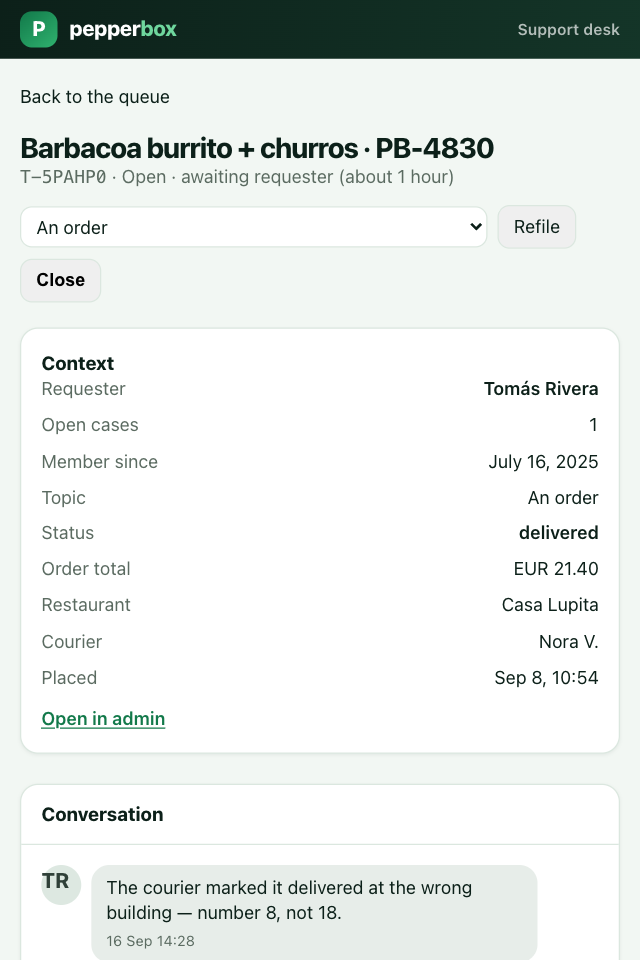
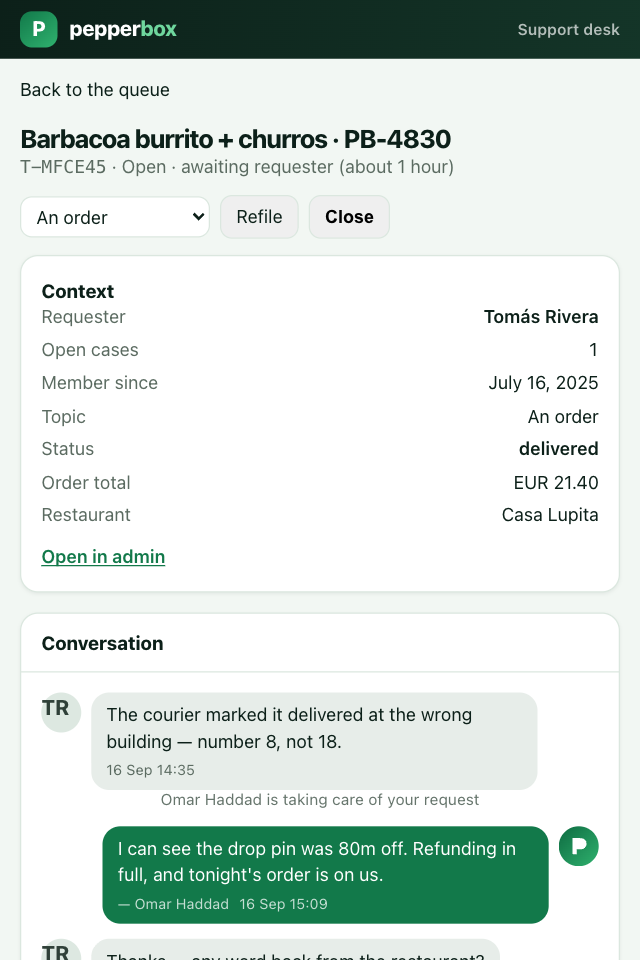
Keep the queue's tabs on one line, and the case a case
Two portrait-only regressions from the re-shoot, both fixed on the host side.

THE TAB ROW WRAPPED. "Closed" dropped to a line of its own, which reads as a
broken toolbar rather than as responsive behaviour — and the five tabs with
their live counts are what that cell is for, so dropping one was not an
option. The demo tightens the tab row's type, padding and gap; the gem keeps
its roomier default for hosts with the width to spend.

Eyeballing that is how it comes back, so `assert_single_row!` now measures the
top edge of every tab and raises unless they share one. The console labels
exactly one <nav>, which is what makes both the selector and the assertion
safe. A longer label now fails the capture instead of shipping.

THE CASE SHOWED NO CONVERSATION. Stacked, a nine-row context card filled the
frame on its own and the transcript arrived as one sliced bubble on the bottom
edge — a cell titled "The whole case" showing a metadata table. The seed's
`support_context` is two pairs now instead of four: Courier and Placed were
filling a table, while the money and the kitchen are what an agent answering
this actually needs. The gem contributes five rows above them and none of
those are the demo's to drop, so the rest of the room came from the console's
own rhythm — a tighter page gutter, header margin, card gap and definition
list, a heading that fits on one line, and a cap on the refile picker, which
sizes itself to "Payments and refunds › A charge I don't recognise" and was
[…]

diff --git a/screenshots/capture.rb b/screenshots/capture.rb
@@ -87,12 +87,16 @@ class Order
   # courier thread in the inbox shot.
   def chat_subject_label = "#{details[:restaurant]} · #{reference}"
 
+  # Two pairs, not four. The gem puts five rows of its own above these
+  # (requester, open cases, member since, topic, status), and the case screen
+  # has to show the CONVERSATION beside what it is about — a card long enough
+  # to fill a portrait frame on its own turns "the whole case" into a
+  # metadata table. Courier and Placed were filling a table; an agent
+  # answering this needs the money and the kitchen.
   def support_context
     {
       "Order total" => format("EUR %.2f", total),
-      "Restaurant" => details[:restaurant],
-      "Courier" => details[:courier],
-      "Placed" => created_at.strftime("%b %-d, %H:%M")
+      "Restaurant" => details[:restaurant]
     }
   end
 end
@@ -440,6 +444,25 @@ def flush_to!(session, selector)
   raise "#{selector} sits #{top}px from the top edge, not flush" unless top.zero?
 end
 
+# Raise unless every child of +selector+ shares one top edge — i.e. the row
+# did not wrap. The queue's five tabs and their counts are the whole point of
+# that cell, and a tab that drops to a line of its own reads as a broken
+# toolbar rather than as responsive behaviour. Asserted rather than eyeballed,
+# so a longer label fails here instead of shipping.
+def assert_single_row!(session, selector)
+  rows = session.evaluate_script(<<~JS)
+    (function () {
+      const row = document.querySelector(#{selector.to_json});
+      if (!row) return null;
+      const tops = Array.from(row.children, (el) => Math.round(el.getBoundingClientRect().top));
+      return new Set(tops).size;
+    })();
+  JS
+
+  raise "nothing to measure for #{selector}" if rows.nil?
+  raise "#{selector} wrapped onto #{rows} lines" unless rows == 1
+end
+
 FileUtils.mkdir_p(OUT)
 
 # --- 1. The grouped inbox row ------------------------------------------------
@@ -494,6 +517,7 @@ emulate!(cdp, *DESK)
 login(session, NADIA_ID)
 session.visit "/admin/support"
 session.assert_selector "h1"
+assert_single_row!(session, "nav[aria-label]")
 settle(session)
 shoot!(cdp, "06-queue")
 
